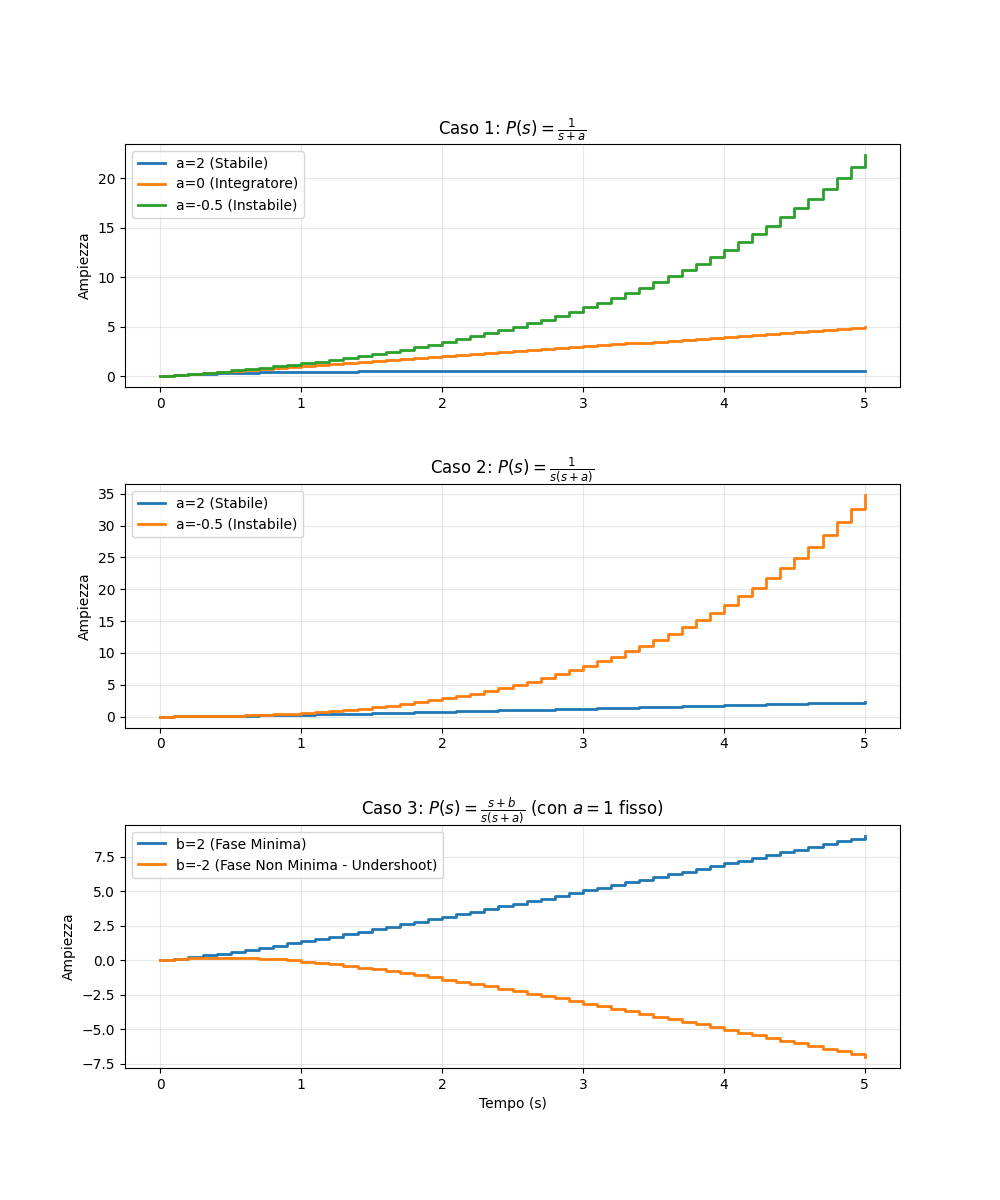
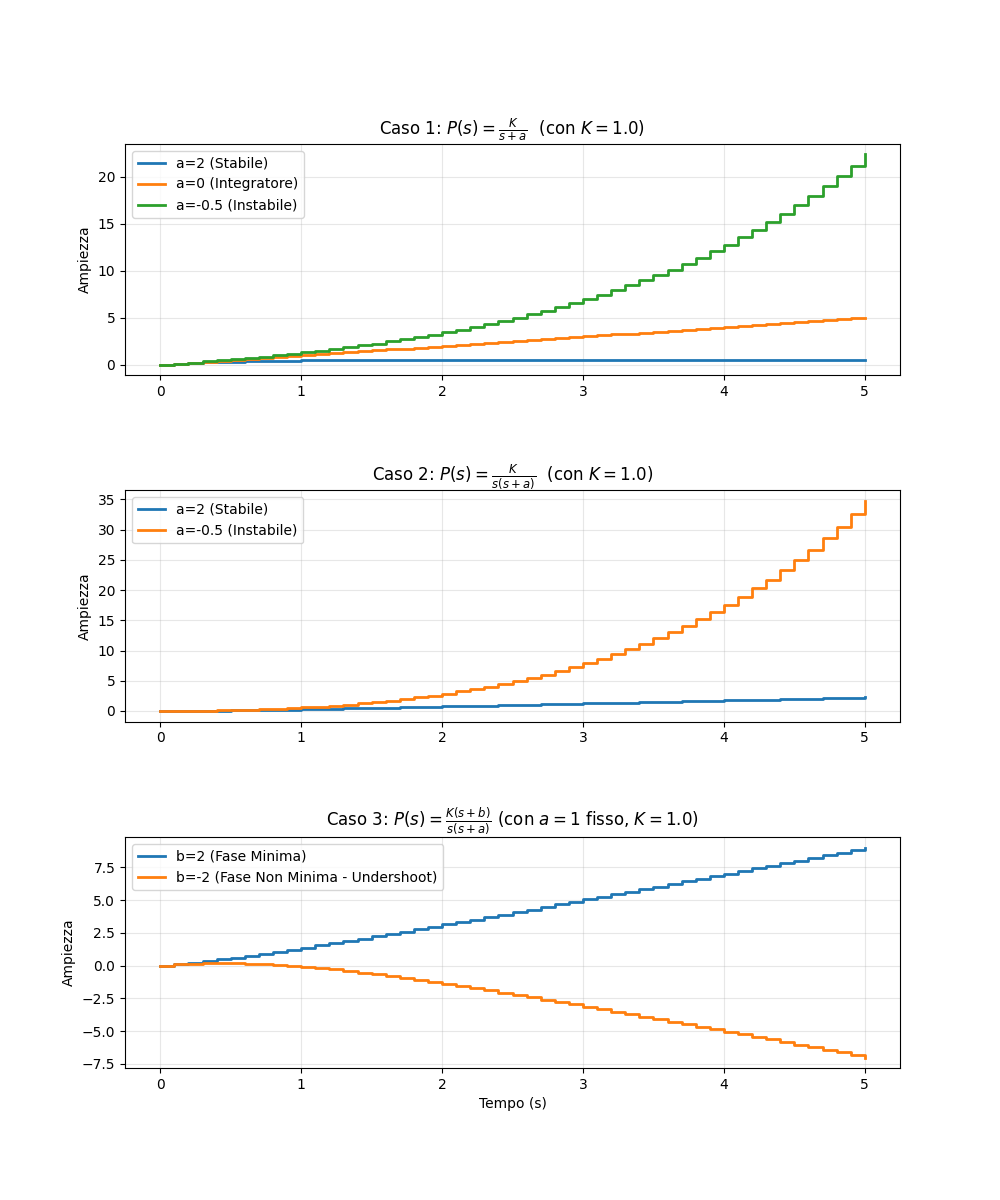
Updated get_discrete_sys functions and plotting script to include a general parameter K

diff --git a/main.py b/main.py
@@ -2,44 +2,43 @@ import numpy as np
 import matplotlib.pyplot as plt
 from scipy import signal
 
-#Calcola Pd(z) per P(s) = 1/(s+a)
-def get_discrete_sys_case1(a, T):
+# Calcola Pd(z) per P(s) = K / (s+a)
+# Formula: Pd(z) = beta / (z - alpha)
+def get_discrete_sys_case1(a, T, K=1.0):
     
     if a == 0:
-        # Caso a=0: 1/s -> T / (z-1)
-        return [T], [1, -1]
+        beta = K * T
+        return [beta], [1, -1]
+        
     else:
-        # Caso a!=0: (1 - exp(-aT))/a / (z - exp(-aT))
-        val = np.exp(-a * T)
-        k = (1 - val) / a
-        return [k], [1, -val]
+        alpha_val = np.exp(-a * T)
+        beta = (K / a) * (1 - alpha_val)
+        return [beta], [1, -alpha_val]
 
-#Calcola Pd(z) per P(s) = 1/(s(s+a))
-def get_discrete_sys_case2(a, T):
+# Calcola Pd(z) per P(s) = K / (s(s+a))
+# Formula: Pd(z) = (lambda*z + beta) / ((z-1)(z-alpha))
+def get_discrete_sys_case2(a, T, K=1.0):
     
-    # Pd(z) = [ (aT - 1 + e^-aT)z + (1 - e^-aT - aTe^-aT) ] / [ a^2 (z-1)(z-e^-aT) ]
-    e_at = np.exp(-a * T)
-    term1 = a * T - 1 + e_at
-    term2 = 1 - e_at - a * T * e_at
+    alpha_val = np.exp(-a * T)
+    lambda_val = (K / (a**2)) * (a * T - 1 + alpha_val)
+    beta_val   = (K / (a**2)) * (1 - alpha_val - a * T * alpha_val)
     
-    num = [term1 / (a**2), term2 / (a**2)]
-    den = [1, -(1 + e_at), e_at]
+    num = [lambda_val, beta_val]
+    den = [1, -(1 + alpha_val), alpha_val]
     
     return num, den
 
-#Calcola Pd(z) per P(s) = (s+b)/(s(s+a))
-def get_discrete_sys_case3(a, b, T):
+# Calcola Pd(z) per P(s) = K(s+b) / (s(s+a))
+# Formula: Pd(z) = (lambda*z + beta) / ((z-1)(z-alpha))
+def get_discrete_sys_case3(a, b, T, K=1.0):
 
-    e_at = np.exp(-a * T)
-    den = [1, -(1 + e_at), e_at]
+    alpha_val = np.exp(-a * T)
+    common_term = (a - b) * (1 - alpha_val)
+    lambda_val = (K / (a**2)) * (common_term + b * a * T)
+    beta_val = -(K / (a**2)) * (common_term + b * a * T * alpha_val)
     
-    c1_z1 = a * (1 - e_at)
-    c1_z0 = -a * (1 - e_at) 
-    
-    c2_z1 = b * (a * T - 1 + e_at)
-    c2_z0 = b * (1 - e_at - a * T * e_at)
-    
-    num = [(c1_z1 + c2_z1) / (a**2), (c1_z0 + c2_z0) / (a**2)]
+    num = [lambda_val, beta_val]
+    den = [1, -(1 + alpha_val), alpha_val]
     
     return num, den
 
@@ -47,16 +46,17 @@ def get_discrete_sys_case3(a, b, T):
 T = 0.1          # Tempo di campionamento (in secondi)
 t_final = 5.0    # Durata simulazione
 n_steps = int(t_final / T) + 1
+K_val = 1.0      # Valore di K selezionato per la simulazione
 
 # Creazione della figura
 fig, axs = plt.subplots(3, 1, figsize=(10, 12))
-plt.subplots_adjust(hspace=0.4)
+plt.subplots_adjust(hspace=0.5)
 
 # --- Caso 1 ---
-axs[0].set_title(r'Caso 1: $P(s) = \frac{1}{s+a}$', fontsize=12)
+axs[0].set_title(rf'Caso 1: $P(s) = \frac{{K}}{{s+a}}$  (con $K={K_val}$)', fontsize=12)
 params1 = [(2, 'a=2 (Stabile)'), (0, 'a=0 (Integratore)'), (-0.5, 'a=-0.5 (Instabile)')]
 for a, label in params1:
-    num, den = get_discrete_sys_case1(a, T)
+    num, den = get_discrete_sys_case1(a, T, K=K_val)
     t, y = signal.dstep((num, den, T), n=n_steps)
     axs[0].step(t, np.squeeze(y), where='post', label=label, linewidth=2)
 axs[0].legend()
@@ -64,10 +64,10 @@ axs[0].grid(True, alpha=0.3)
 axs[0].set_ylabel('Ampiezza')
 
 # --- Caso 2 ---
-axs[1].set_title(r'Caso 2: $P(s) = \frac{1}{s(s+a)}$', fontsize=12)
+axs[1].set_title(rf'Caso 2: $P(s) = \frac{{K}}{{s(s+a)}}$  (con $K={K_val}$)', fontsize=12)
 params2 = [(2, 'a=2 (Stabile)'), (-0.5, 'a=-0.5 (Instabile)')]
 for a, label in params2:
-    num, den = get_discrete_sys_case2(a, T)
+    num, den = get_discrete_sys_case2(a, T, K=K_val)
     t, y = signal.dstep((num, den, T), n=n_steps)
     axs[1].step(t, np.squeeze(y), where='post', label=label, linewidth=2)
 axs[1].legend()
@@ -75,10 +75,10 @@ axs[1].grid(True, alpha=0.3)
 axs[1].set_ylabel('Ampiezza')
 
 # --- Caso 3 ---
-axs[2].set_title(r'Caso 3: $P(s) = \frac{s+b}{s(s+a)}$ (con $a=1$ fisso)', fontsize=12)
+axs[2].set_title(rf'Caso 3: $P(s) = \frac{{K(s+b)}}{{s(s+a)}}$ (con $a=1$ fisso, $K={K_val}$)', fontsize=12)
 params3 = [(2, 'b=2 (Fase Minima)'), (-2, 'b=-2 (Fase Non Minima - Undershoot)')]
 for b, label in params3:
-    num, den = get_discrete_sys_case3(1, b, T)
+    num, den = get_discrete_sys_case3(1, b, T, K=K_val)
     t, y = signal.dstep((num, den, T), n=n_steps)
     axs[2].step(t, np.squeeze(y), where='post', label=label, linewidth=2)
 axs[2].legend()
